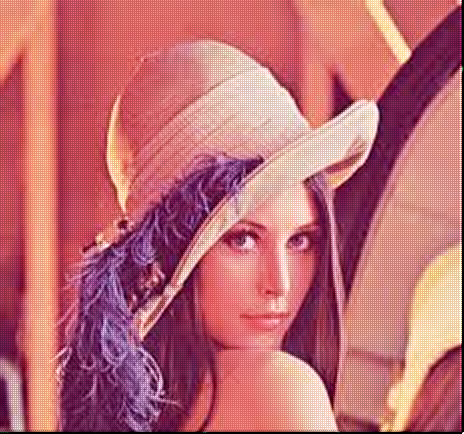
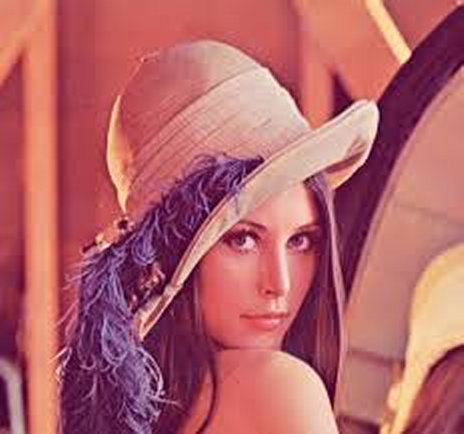
fix bicubic interpolation

Changed region(s): [[0.0, 0.0, 1.0, 1.0]]

diff --git a/Bicubic_Interpolation/bicubic.py b/Bicubic_Interpolation/bicubic.py
@@ -2,40 +2,67 @@ import cv2
 import numpy as np
 
 
-def resize_bicubic(img, x, y):
+def resize_bicubic(img, ax, ay):
     H, W, C = img.shape
-    out = np.zeros((int(y*H), int(x*W), C), dtype=np.float)
-    for i in range(int(y*H)):
-        for j in range(int(x*W)):
-            for k in range(C):
-                xi, yi = int(j / x), int(i / y)
-                xi = np.minimum(xi, W - 3)
-                yi = np.minimum(yi, H - 3)
-                dx2 = (j / x) - xi
-                dy2 = (i / y) - yi
-                dx1 = dx2 + 1
-                dy1 = dy2 + 1
-                dx3 = 1 - dx2
-                dy3 = 1 - dy2
-                dx4 = 1 + dx3
-                dy4 = 1 + dy3
 
-                def h(t):
-                    at = np.abs(t)
-                    if at <= 1:
-                        t = at ** 3 - 2 * (at ** 2) + 1
-                    elif (1 < at) or (at <= 2):
-                        t = -at ** 3 + 5 * at ** 2 - 8 * at + 4
-                    else:
-                        t = 0
-                    return t
+    aH = int(ay * H)
+    aW = int(ax * W)
 
-                if xi < 2:
-                    xi = 1
-                if yi < 2:
-                    yi = 1
+    y = np.arange(aH).repeat(aW).reshape(aH, -1)
+    x = np.tile(np.arange(aW), (aH, 1))
+    y = (y / ay)
+    x = (x / ax)
+    print(y)
+    print(x)
 
-                out[i, j, k] = h(dx2)*h(dy2)*img[yi, xi, k] + h(dy2)*h(dx3)*img[yi, xi+1, k] + h(dy3)*h(dx2)*img[yi+1, xi, k] + h(dx3)*h(dx3)*img[yi+1, xi+1, k] + h(dy1)*h(dx2)*img[yi-1, xi, k] + h(dy1)*h(dx3)*img[yi-1, xi+1, k] + h(dy1)*h(dx4)*img[yi-1, xi+2, k] + h(dy2)*h(dx4)*img[yi, xi+2 ,k] + h(dy3)*h(dx4)*img[yi+1, xi+2, k] + h(dy4)*h(dx4)*img[yi+2, xi+2, k] + h(dx3)*h(dy4)*img[yi+2, xi+1, k] + h(dy4)*h(dx2)*img[yi+2, xi, k] + h(dy4)*h(dx1)*img[yi+2, xi-1, k] + h(dy3)*h(dx1)*img[yi+1, xi-1, k] + h(dy2)*h(dx1)*img[yi, xi-1, k] + h(dx1)*h(dy1)*img[yi-1, xi-1, k]
+    ix = np.floor(x).astype(np.int)
+    iy = np.floor(y).astype(np.int)
+
+    ix = np.minimum(ix, W-1)
+    iy = np.minimum(iy, H-1)
+
+    dx2 = x - ix
+    dy2 = y - iy
+    dx1 = dx2 + 1
+    dy1 = dy2 + 1
+    dx3 = 1 - dx2
+    dy3 = 1 - dy2
+    dx4 = 1 + dx3
+    dy4 = 1 + dy3
+
+    dxs = [dx1, dx2, dx3, dx4]
+    dys = [dy1, dy2, dy3, dy4]
+
+    def weight(t):
+        a = -1.
+        at = np.abs(t)
+        w = np.zeros_like(t)
+        ind = np.where(at <= 1)
+        w[ind] = ((a+2) * np.power(at, 3) - (a+3) * np.power(at, 2) + 1)[ind]
+        ind = np.where((at > 1) & (at <= 2))
+        w[ind] = (a*np.power(at, 3) - 5*a*np.power(at, 2) + 8*a*at - 4*a)[ind]
+        return w
+
+    w_sum = np.zeros((aH, aW, C), dtype=np.float32)
+    out = np.zeros((aH, aW, C), dtype=np.float32)
+
+    for j in range(-1, 3):
+        for i in range(-1, 3):
+            ind_x = np.minimum(np.maximum(ix + i, 0), W-1)
+            ind_y = np.minimum(np.maximum(iy + j, 0), H-1)
+
+            wx = weight(dxs[i+1])
+            wy = weight(dys[j+1])
+            wx = np.repeat(np.expand_dims(wx, axis=-1), 3, axis=-1)
+            wy = np.repeat(np.expand_dims(wy, axis=-1), 3, axis=-1)
+
+            w_sum += wx * wy
+            out += wx * wy * img[ind_y, ind_x]
+
+    out /= w_sum
+    out = np.clip(out, 0, 255)
+    out = out.astype(np.uint8)
+
     return out
 
 
